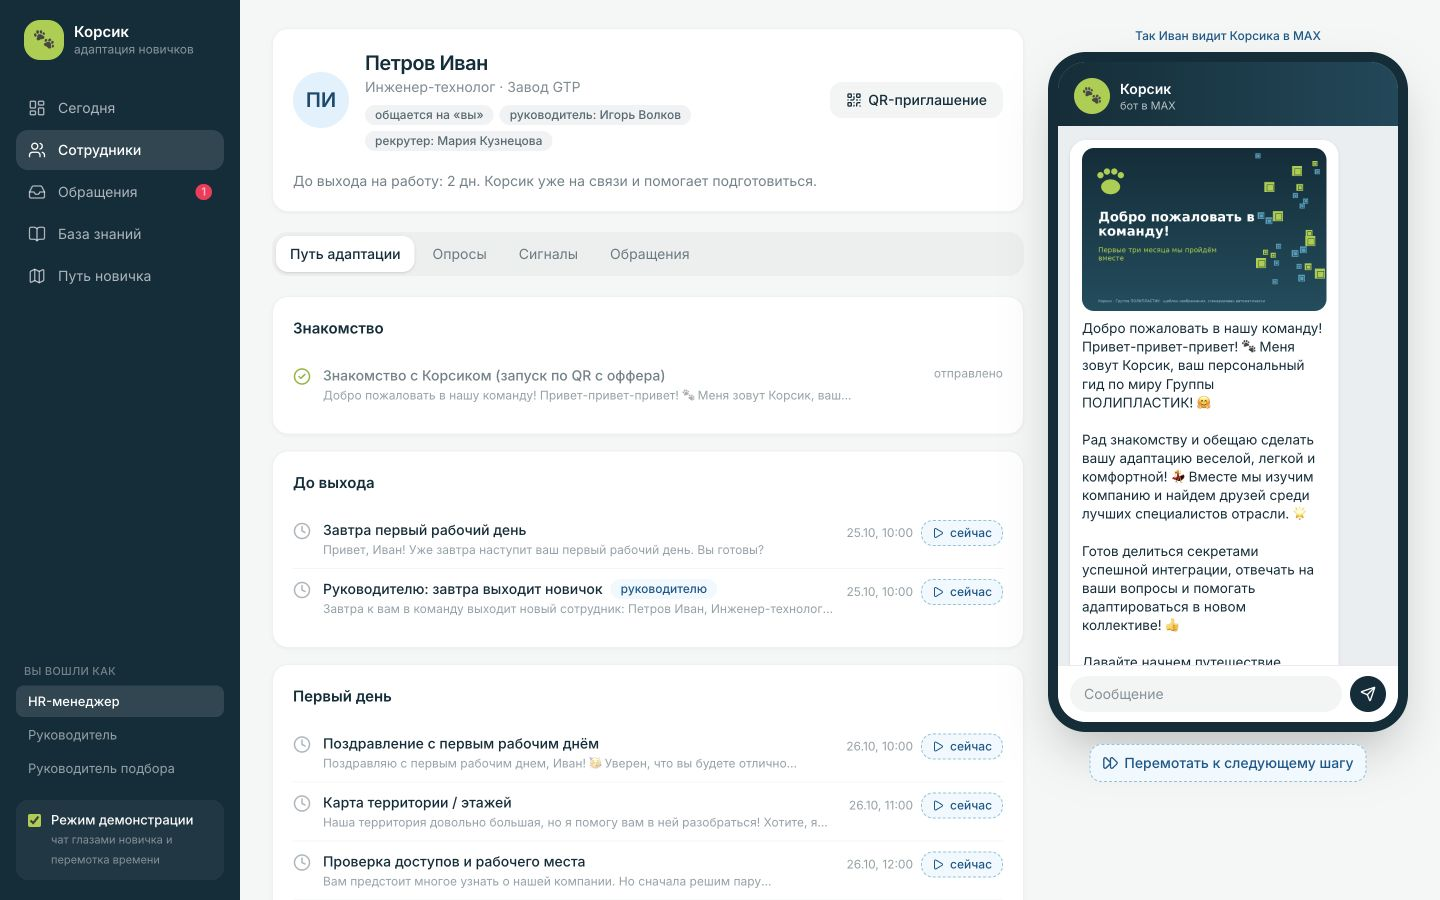
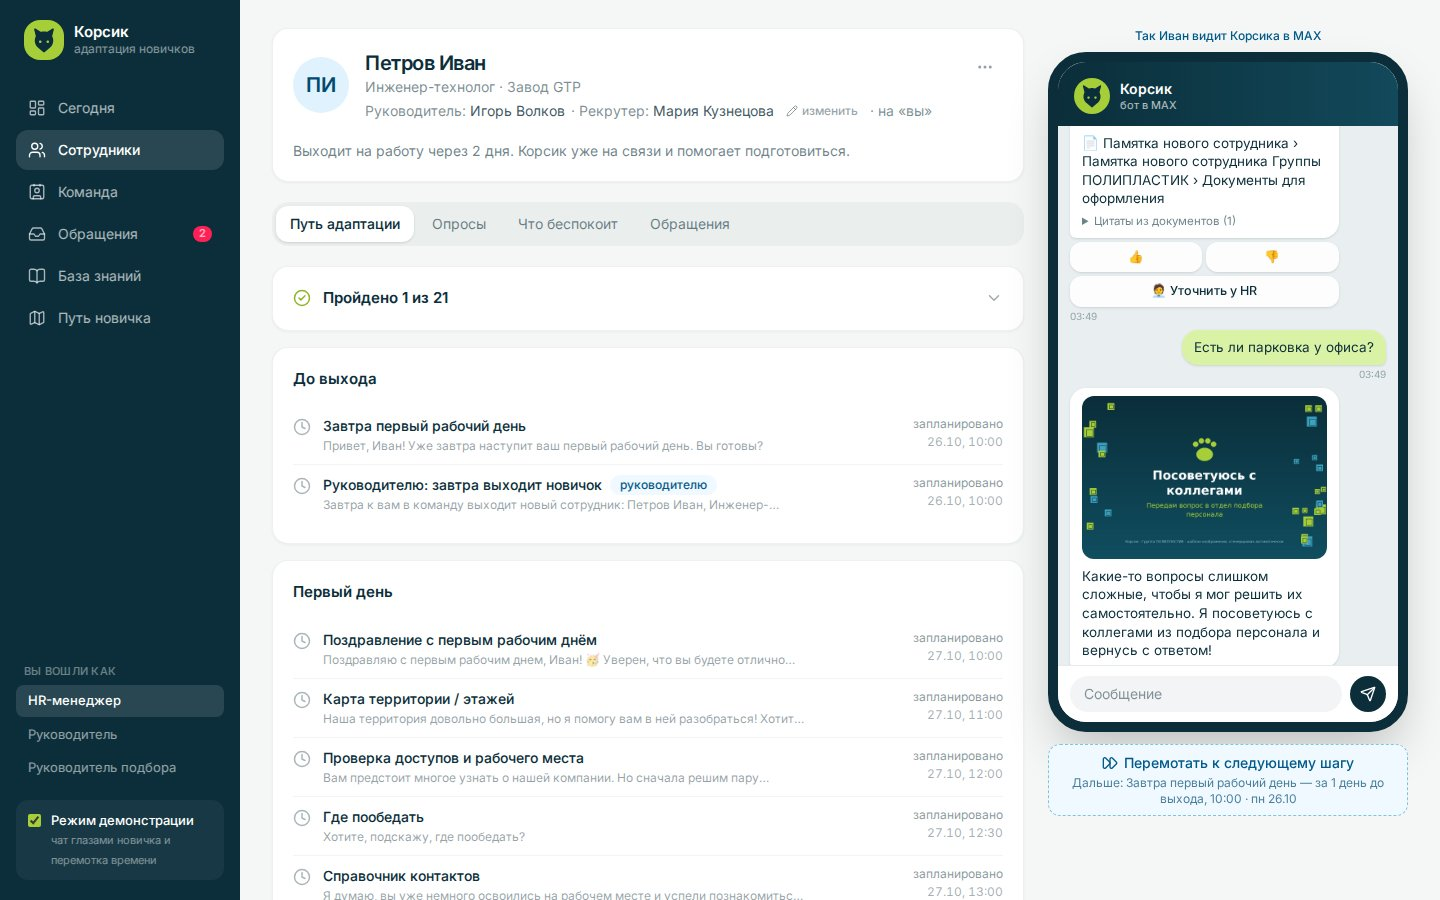
Экраны панели в README — со стенда из инструкции (#91)
* Переснять экраны панели для README на стенде из инструкции

* Переснять «Базу знаний» под итоговые примеры

* Подпись карточки сотрудника — по тому, что видно в кадре

diff --git a/README.md b/README.md
@@ -113,23 +113,25 @@ uv run python eval/run_eval.py --e2e
 
 ## Как выглядит панель
 
-Снимки работающей панели, 1440×900. Персонажи и обращения вымышлены: это локальная демонстрация, а не результаты пилота. Чат справа в карточке сотрудника — встроенный демо-чат, не снимок приложения MAX.
+Снимки сделаны на стенде из [полной демонстрации](#полная-демонстрация-с-локальными-моделями) после `seed.py kb`: открытая памятка, вымышленные сотрудники, модели на CPU, MAX не подключён. Это локальная демонстрация, а не результаты пилота. Чат справа в карточке сотрудника — встроенный демо-чат, не снимок приложения MAX.
 
-**Сегодня:** обращения, требующие ответа, сигналы из опросов и этапы адаптации.
+**Сегодня:** обращения, которые ждут ответа, кому нужна поддержка, на какие вопросы Корсик ответил сам и каких ответов не хватает в базе знаний.
 
-![Панель HR «Сегодня» с демо-обращением и сигналом о непонимании задач](docs/screenshots/today.jpg)
+![Панель HR «Сегодня»: обращения ждут ответа, ответы Корсика и вопросы, которых нет в базе знаний](docs/screenshots/today.jpg)
 
-**Карточка сотрудника:** путь адаптации и чат глазами новичка.
+**Карточка сотрудника:** путь адаптации и чат глазами новичка — ответ по памятке со ссылкой на раздел и честный отказ на вопрос, которого в памятке нет.
 
-![Карточка Петрова Ивана с таймлайном и приветствием Корсика в демо-чате](docs/screenshots/employee-chat.jpg)
+![Карточка Петрова Ивана: путь адаптации и демо-чат — ответ со ссылкой на памятку и отказ на вопрос о парковке](docs/screenshots/employee-chat.jpg)
 
-**Обращения:** контекст переписки и поле ответа HR в тот же диалог.
+**Обращения:** суть обращения, которую подготовил Корсик, переписка и ответ HR в тот же диалог.
 
-![Открытое демо-обращение Соколовой Ольги с просьбой уточнить задачи](docs/screenshots/tickets.jpg)
+![Обращение Морозовой Алины о перегрузке: суть от Корсика, срок ответа вышел, переписка](docs/screenshots/tickets.jpg)
 
-Другие экраны: [«Мои новички» руководителя](docs/screenshots/manager.jpg), [«Настроения»](docs/screenshots/mood.jpg), [«База знаний»](docs/screenshots/knowledge.jpg).
+**База знаний:** проверка ответа Корсика с цитатой из документа.
 
-На стенде для этих снимков MAX и языковая модель не подключены, документы не загружены. В карточке обращения показан резервный текст по сообщению сотрудника; «Настроения» и «База знаний» сняты в пустом состоянии. Снимки не подтверждают качество ответов модели или доставку в MAX — ограничения и замеры описаны выше.
+![«База знаний»: памятка обработана, ответ об адаптационном плане с цитатой из памятки](docs/screenshots/knowledge.jpg)
+
+Другие экраны: [«Мои новички» руководителя](docs/screenshots/manager.jpg), [«Настроения»](docs/screenshots/mood.jpg).
 
 ## Где искать реализацию
 
